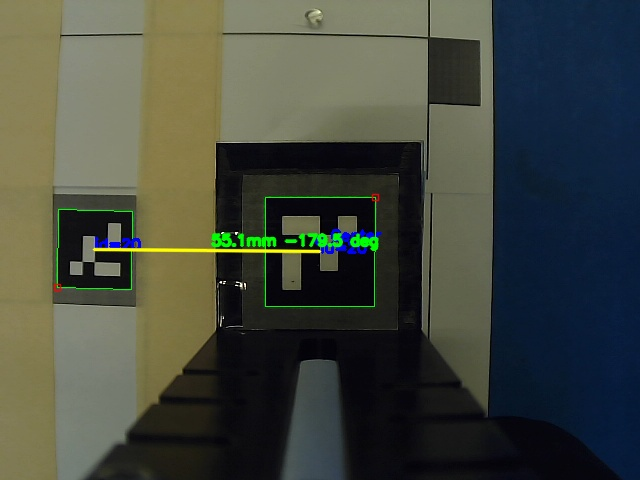
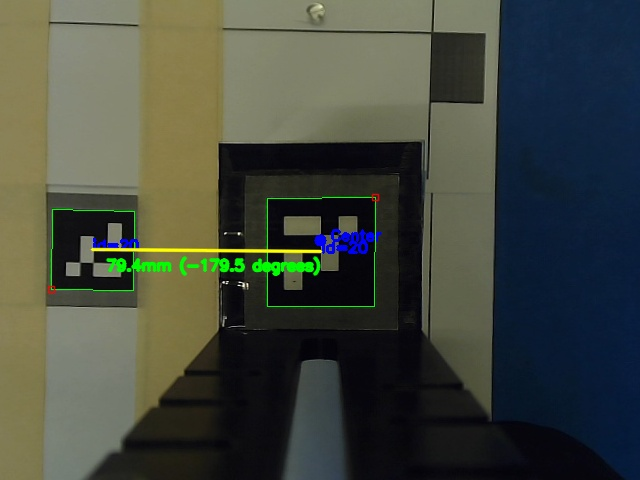
test print

diff --git a/ArucoMarkers/detect_aruco_c.py b/ArucoMarkers/detect_aruco_c.py
@@ -1,0 +1,234 @@
+import os
+import sys
+import time
+import cv2
+import numpy as np
+import argparse
+
+# --- Ensure UTF-8 output for Windows terminals ---
+sys.stdout.reconfigure(encoding='utf-8')
+
+# === ArUco setup ===
+ARUCO_DICT = cv2.aruco.getPredefinedDictionary(cv2.aruco.DICT_4X4_50)
+ARUCO_PARAMS = cv2.aruco.DetectorParameters()
+DETECTOR = cv2.aruco.ArucoDetector(ARUCO_DICT, ARUCO_PARAMS)
+
+# === Marker properties ===
+MARKER_SIZE_MM = 37.6  # Actual ArUco marker size in millimeters
+# === Load camera calibration ===
+try:
+    CAMERA_MATRIX = np.load('camera_matrix.npy')
+    DIST_COEFFS = np.load('dist_coeffs.npy')
+    print("📸 Loaded camera calibration files.")
+except Exception as e:
+    print("⚠ Could not load calibration files (camera_matrix.npy, dist_coeffs.npy).")
+    print("   Please run calibration first. See: calibrate_camera.py")
+    sys.exit(1)
+
+def measure_marker_to_marker_distance(frame, corners, ids, px_per_mm):
+    """
+    Compute and visualize distances and angles between each pair of detected markers.
+    Marker-to-marker line: yellow, text: black.
+    """
+    distances = {}
+    centers = []
+
+    # Compute marker centers
+    for c, marker_id in zip(corners, ids.flatten()):
+        pts = c.reshape((4, 2))
+        cx, cy = int(pts[:, 0].mean()), int(pts[:, 1].mean())
+        centers.append((marker_id, (cx, cy)))
+
+    # Compute all pairwise distances and angles
+    for i in range(len(centers)):
+        id1, (x1, y1) = centers[i]
+        for j in range(i + 1, len(centers)):
+            id2, (x2, y2) = centers[j]
+
+            dist_px = np.hypot(x2 - x1, y2 - y1)
+            dist_mm = dist_px / px_per_mm
+
+            # Calculate angle in degrees (relative to horizontal axis)
+            angle_rad = np.arctan2(y2 - y1, x2 - x1)
+            angle_deg = np.degrees(angle_rad)
+
+            distances[(int(id1), int(id2))] = {
+                "pixels": round(dist_px, 2),
+                "millimeters": round(dist_mm, 2),
+                "angle_deg": round(angle_deg, 2)
+            }
+
+            # Draw connecting line (yellow)
+            mid_x, mid_y = int((x1 + x2) / 2), int((y1 + y2) / 2)
+            cv2.line(frame, (x1, y1), (x2, y2), (0, 255, 255), 2, lineType=cv2.LINE_AA)
+
+            # Draw text showing distance and angle
+            cv2.putText(frame, f"{dist_mm:.1f}mm ({angle_deg:.1f} degrees)",
+                        (mid_x - 100, mid_y+20),
+                        cv2.FONT_HERSHEY_SIMPLEX, 0.5, (0, 255, 0), 2, lineType=cv2.LINE_AA)
+
+    return distances
+
+
+def detect_and_draw(frame, measure_between_markers=False):
+    """
+    Detect ArUco markers in the frame, draw annotations, and return distance data.
+    If measure_between_markers=True, measure distances between marker centers instead of to frame edges.
+    
+    """
+    frame = cv2.undistort(frame, CAMERA_MATRIX, DIST_COEFFS)
+
+    h, w = frame.shape[:2]
+    frame_center = (w // 2, h // 2)
+
+    # Draw frame center point
+    cv2.circle(frame, frame_center, 6, (255, 0, 0), -1)
+    cv2.putText(frame, "Center", (frame_center[0] + 10, frame_center[1]),
+                cv2.FONT_HERSHEY_SIMPLEX, 0.5, (255, 0, 0), 2)
+
+    corners, ids, _ = DETECTOR.detectMarkers(frame)
+    distances_dict = {}
+
+    if ids is not None:
+        cv2.aruco.drawDetectedMarkers(frame, corners, ids)
+
+        # Estimate pixel-to-mm scale from the first marker
+        first_marker = corners[0].reshape((4, 2))
+        # width_px = np.linalg.norm(first_marker[0] - first_marker[1])
+        # px_per_mm = width_px / MARKER_SIZE_MM
+        side1 = np.linalg.norm(first_marker[0] - first_marker[1])
+        side2 = np.linalg.norm(first_marker[1] - first_marker[2])
+        px_per_mm = ((side1 + side2) / 2) / MARKER_SIZE_MM
+
+
+        if measure_between_markers:
+            # Measure distances between centers of markers
+            distances_dict = measure_marker_to_marker_distance(frame, corners, ids, px_per_mm)
+        else:
+            # Measure distances from each marker to frame sides
+            for c, marker_id in zip(corners, ids.flatten()):
+                c = c.reshape((4, 2))
+                cx, cy = int(c[:, 0].mean()), int(c[:, 1].mean())
+
+                # Draw marker center
+                cv2.circle(frame, (cx, cy), 5, (0, 0, 255), -1)
+
+                # Distances (px and mm)
+                dx, dy = cx - frame_center[0], cy - frame_center[1]
+                dist_center_px = np.hypot(dx, dy)
+
+                dist_center_mm = dist_center_px / px_per_mm
+                dist_left_mm = cx / px_per_mm
+                dist_right_mm = (w - cx) / px_per_mm
+                dist_top_mm = cy / px_per_mm
+                dist_bottom_mm = (h - cy) / px_per_mm
+
+                # Draw helper lines + text
+                cv2.line(frame, (cx, cy), (0, cy), (255, 255, 0), 1)
+                cv2.putText(frame, f"{dist_left_mm:.1f}mm", (cx // 2, cy - 5),
+                            cv2.FONT_HERSHEY_SIMPLEX, 0.4, (255, 255, 0), 1)
+
+                cv2.line(frame, (cx, cy), (w, cy), (255, 255, 0), 1)
+                cv2.putText(frame, f"{dist_right_mm:.1f}mm", ((cx + w) // 2, cy - 5),
+                            cv2.FONT_HERSHEY_SIMPLEX, 0.4, (255, 255, 0), 1)
+
+                cv2.line(frame, (cx, cy), (cx, 0), (255, 255, 0), 1)
+                cv2.putText(frame, f"{dist_top_mm:.1f}mm", (cx + 5, cy // 2),
+                            cv2.FONT_HERSHEY_SIMPLEX, 0.4, (255, 255, 0), 1)
+
+                cv2.line(frame, (cx, cy), (cx, h), (255, 255, 0), 1)
+                cv2.putText(frame, f"{dist_bottom_mm:.1f}mm", (cx + 5, (cy + h) // 2),
+                            cv2.FONT_HERSHEY_SIMPLEX, 0.4, (255, 255, 0), 1)
+
+                # Draw center line (yellow) and distance text (black)
+                cv2.line(frame, frame_center, (cx, cy), (0, 255, 255), 2)
+                cv2.putText(frame, f"{dist_center_mm:.1f}mm",
+                            ((cx + frame_center[0]) // 2 + 5, (cy + frame_center[1]) // 2 + 5),
+                            cv2.FONT_HERSHEY_SIMPLEX, 0.5, (0, 255, 0), 2, lineType=cv2.LINE_AA)
+
+                # Label marker
+                cv2.putText(frame, f"ID:{marker_id}", (cx + 10, cy - 10),
+                            cv2.FONT_HERSHEY_SIMPLEX, 0.5, (0, 255, 0), 2)
+
+                # Store data
+                distances_dict[int(marker_id)] = {
+                    "center_mm": round(dist_center_mm, 2),
+                    "left_mm": round(dist_left_mm, 2),
+                    "right_mm": round(dist_right_mm, 2),
+                    "top_mm": round(dist_top_mm, 2),
+                    "bottom_mm": round(dist_bottom_mm, 2),
+                    "center_px": round(dist_center_px, 2),
+                }
+
+    return frame, distances_dict
+
+
+def detect_from_image(path, save_marked=True, return_marked=False, show=False, measure=False):
+    """
+    Detect ArUco markers in an image, annotate results, and return measurements.
+    """
+    abs_path = os.path.abspath(path)
+    print(f"🔍 Reading image: {abs_path}")
+    offset = 0
+
+    img = cv2.imread(abs_path)
+    if img is None:
+        print(f"[ERROR] Could not read image: {abs_path}")
+        return ({}, None) if return_marked else {}
+
+    annotated, distances = detect_and_draw(img, measure_between_markers=measure)
+
+    if measure:
+        print("\n📐 Marker-to-Marker Distances and Angles:")
+        for (id1, id2), dist in distances.items():
+            print(f"  Between {id1} ↔ {id2}: {dist['millimeters']:.2f} mm, "
+                  f"Angle: {dist['angle_deg']:.2f}°")
+            offset = dist['millimeters']
+    else:
+        print("\n📏 Measured distances (marker-to-frame in mm):")
+        for marker_id, data in distances.items():
+            print(f"Marker ID: {marker_id}")
+            for key, value in data.items():
+                print(f"  {key:10}: {float(value):.2f} mm")
+
+    # Save annotated image
+    if save_marked:
+        folder, filename = os.path.split(abs_path)
+        name, ext = os.path.splitext(filename)
+        marked_path = os.path.join(folder, f"{name}_marked{ext}")
+        cv2.imwrite(marked_path, annotated)
+        print(f"\n🖍 Marked image saved to: {marked_path}")
+
+    # Display window if requested
+    if show:
+        cv2.imshow("ArUco Detection", annotated)
+        cv2.waitKey(0)
+        cv2.destroyAllWindows()
+    return (offset, annotated) if return_marked else offset
+
+
+def main():
+    """CLI entry point."""
+    parser = argparse.ArgumentParser(
+        description="Detect ArUco markers and measure distances and angles (in mm & degrees)."
+    )
+    parser.add_argument("--image", required=True, help="Path to input image file.")
+    parser.add_argument("--show", action="store_true", help="Display image window.")
+    parser.add_argument("--nosave", action="store_true", help="Do not save marked image.")
+    parser.add_argument("--returnimg", action="store_true", help="Return annotated image array.")
+    parser.add_argument("--measure", action="store_true",
+                        help="Measure distances between marker centers instead of to frame edges.")
+    args = parser.parse_args()
+
+    detect_from_image(
+        path=args.image,
+        save_marked=not args.nosave,
+        return_marked=args.returnimg,
+        show=args.show,
+        measure=args.measure
+    )
+    
+
+
+if __name__ == "__main__":
+    main()
